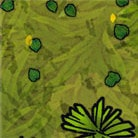
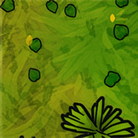
change to single bacgkround

diff --git a/public/battle_manager.js b/public/battle_manager.js
@@ -1183,6 +1183,12 @@ function renderBattleGrid(layoutJson) {
         display: 'flex', flexDirection: 'column', margin: '3px', border: '2px solid #c4975a', borderRadius: '4px',
     });
 
+    const bgName = layoutJson.background || BattleState.battleState?.background || 'default';
+    container.style.backgroundImage = `url(assets/art/backgrounds/${bgName}.png)`;
+    container.style.backgroundSize = 'cover';
+    container.style.backgroundPosition = 'center';
+    container.style.backgroundRepeat = 'no-repeat';
+
     const table = document.createElement('table');
     table.className = 'battle-grid-table';
     Object.assign(table.style, {
@@ -1219,9 +1225,6 @@ function renderBattleGrid(layoutJson) {
             td.title = tileName;
 
             Object.assign(td.style, {
-                backgroundImage: `url(assets/art/tiles/${art}.png)`,
-                backgroundSize: 'cover',
-                backgroundPosition: 'center',
                 width: `${100 / GRID_SIZE.cols}%`,
                 padding: '0', margin: '0',
                 position: 'relative',
@@ -1368,7 +1371,7 @@ function createEnvironmentItemElement(item) {
     el.style.left = '0';
     el.style.width = '100%';
     el.style.height = '100%';
-    el.style.zIndex = '8'; // under characters (characters are zIndex 5+)
+    el.style.zIndex = '5'; // under characters (characters are zIndex 5+)
     el.title = item.name + (item.character_name ? ` — ${item.character_name}` : '');
 
     // sprite image (fallback to placeholder)
